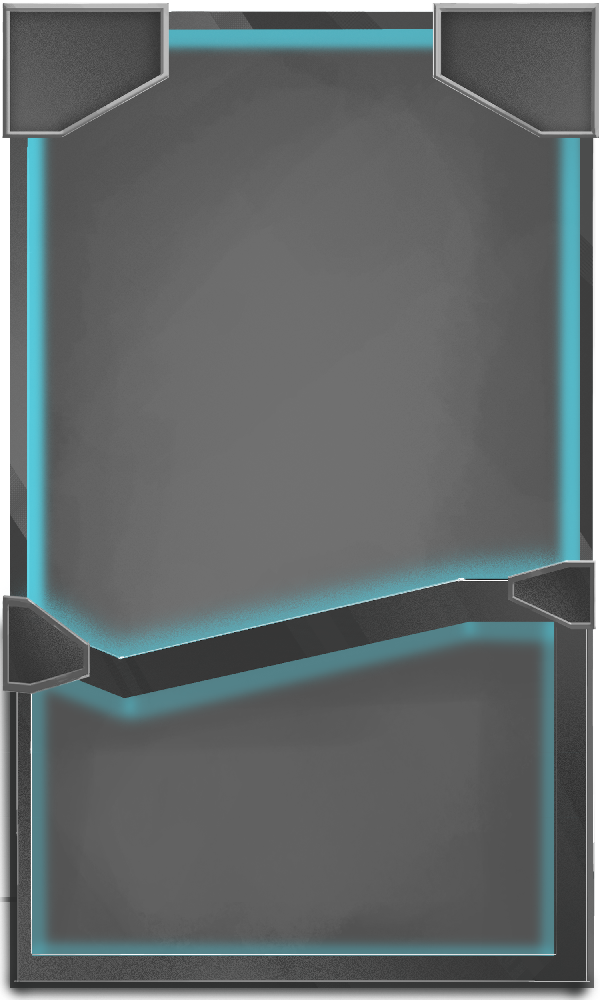
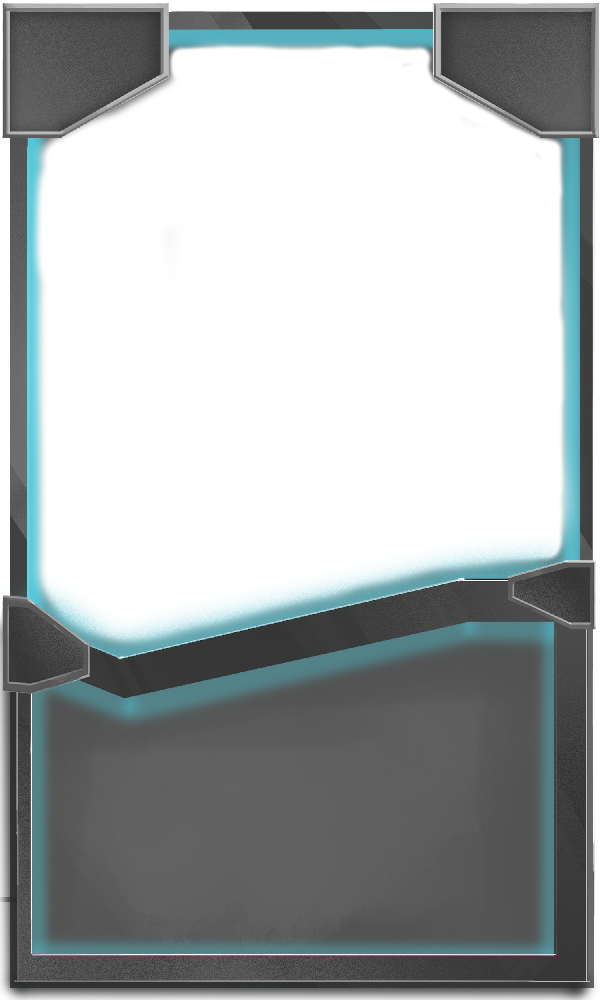
замена UI, исправление карточек

diff --git a/Assets/Scripts/UIScripts/Card.cs b/Assets/Scripts/UIScripts/Card.cs
@@ -29,7 +29,7 @@ namespace Cards
 
 		void Start(){
 			myFont = Resources.Load<Font> ("Font/Slabo27px-Regular");
-			//startParent = transform;
+			startParent = transform;
 			cardBase = CardBase.instance;
 			Image face = new GameObject ("face").AddComponent<Image> ();
 			face.rectTransform.SetParent (rectTransform, false);
@@ -83,11 +83,15 @@ namespace Cards
 		}
 
 		public void OnEndDrag(PointerEventData eventData){
-			if (startParent == GetComponentInParent<Transform> ()) {
-				UIController.instance.DiscardSelectedCard (rectTransform, HandIndexPosition, true);
+			if (startParent == transform) {
+				UIController.instance.DiscardSelectedCard (rectTransform, HandIndexPosition,true);
 			} else {
+				
+			}
+			if (afterActive) {
 				rectTransform.localPosition = Vector3.zero;
 				rectTransform.localScale = Vector3.one;
+				rectTransform.eulerAngles = Vector3.zero;
 			}
 			GetComponent<CanvasGroup> ().blocksRaycasts = true;
 			UIController.instance.selectedCard = null;

diff --git a/Assets/Scripts/UIScripts/ActiveZone.cs b/Assets/Scripts/UIScripts/ActiveZone.cs
@@ -31,27 +31,6 @@ public class ActiveZone : MonoBehaviour, IDropHandler {
 		}
 	}
 
-	public void OnPointerDown(PointerEventData evetnData){
-		/*if (uiController.selectedCard != null) {
-			Disapear ();
-
-			Card crd = uiController.selectedCard.GetComponent<Card> ();
-			crd.cantSelected = true;
-			uiController.handCards.Remove (crd);
-
-			if (card != null) {
-				nextCard = uiController.selectedCard;
-				StartRemoveCard ();
-			} else {
-				card = uiController.selectedCard;
-			}
-			uiController.DecreaseCardHandIndex (crd);
-			uiController.selectedCard = null;
-		} else {
-			StartRemoveCard ();
-		}*/
-	}
-
 	void Disapear(){
 		uiController.selectedCard.SetParent (rectTransform, false);
 		uiController.selectedCard.localPosition = Vector2.zero;
